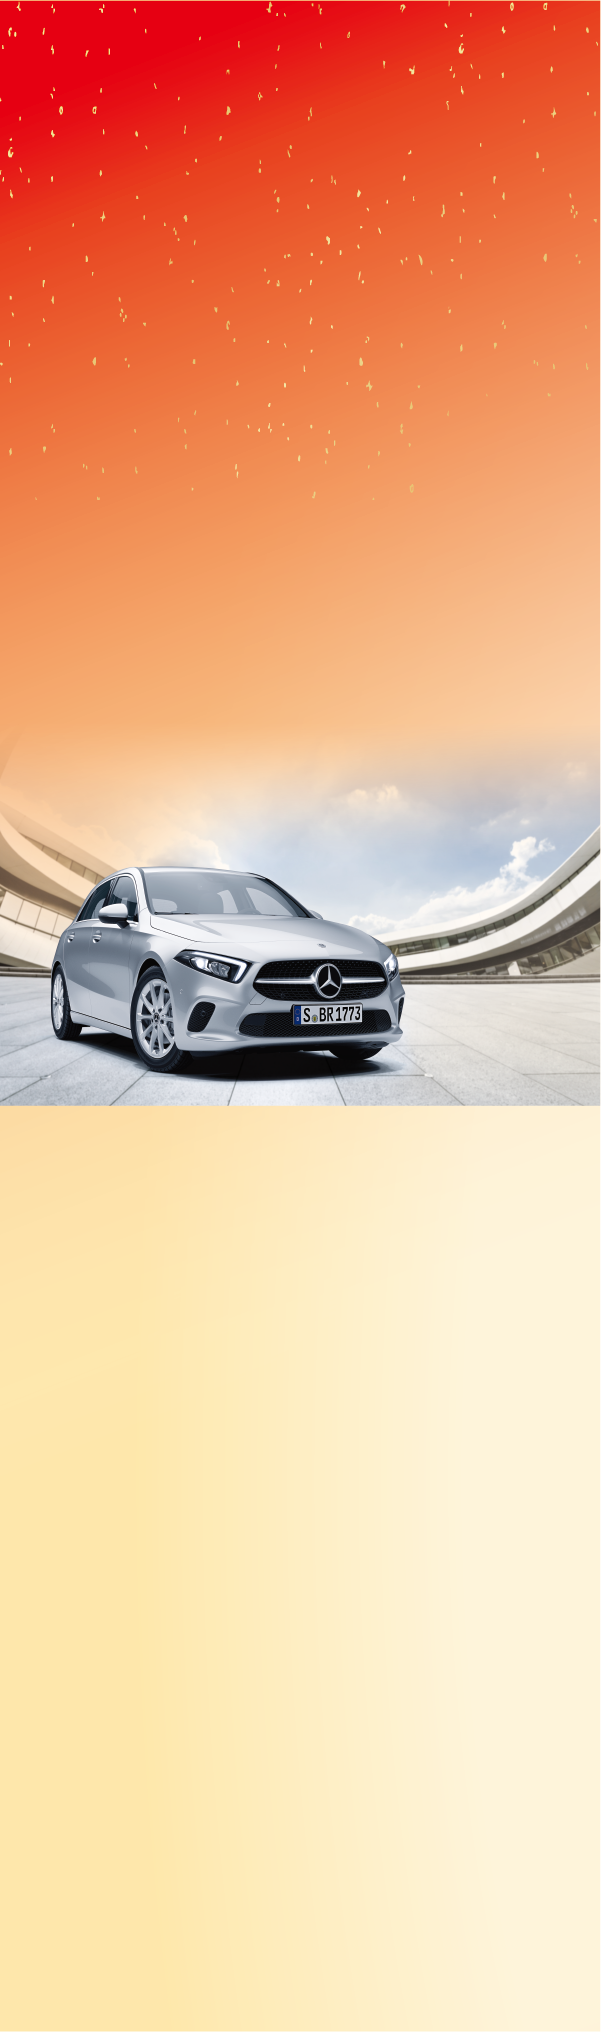
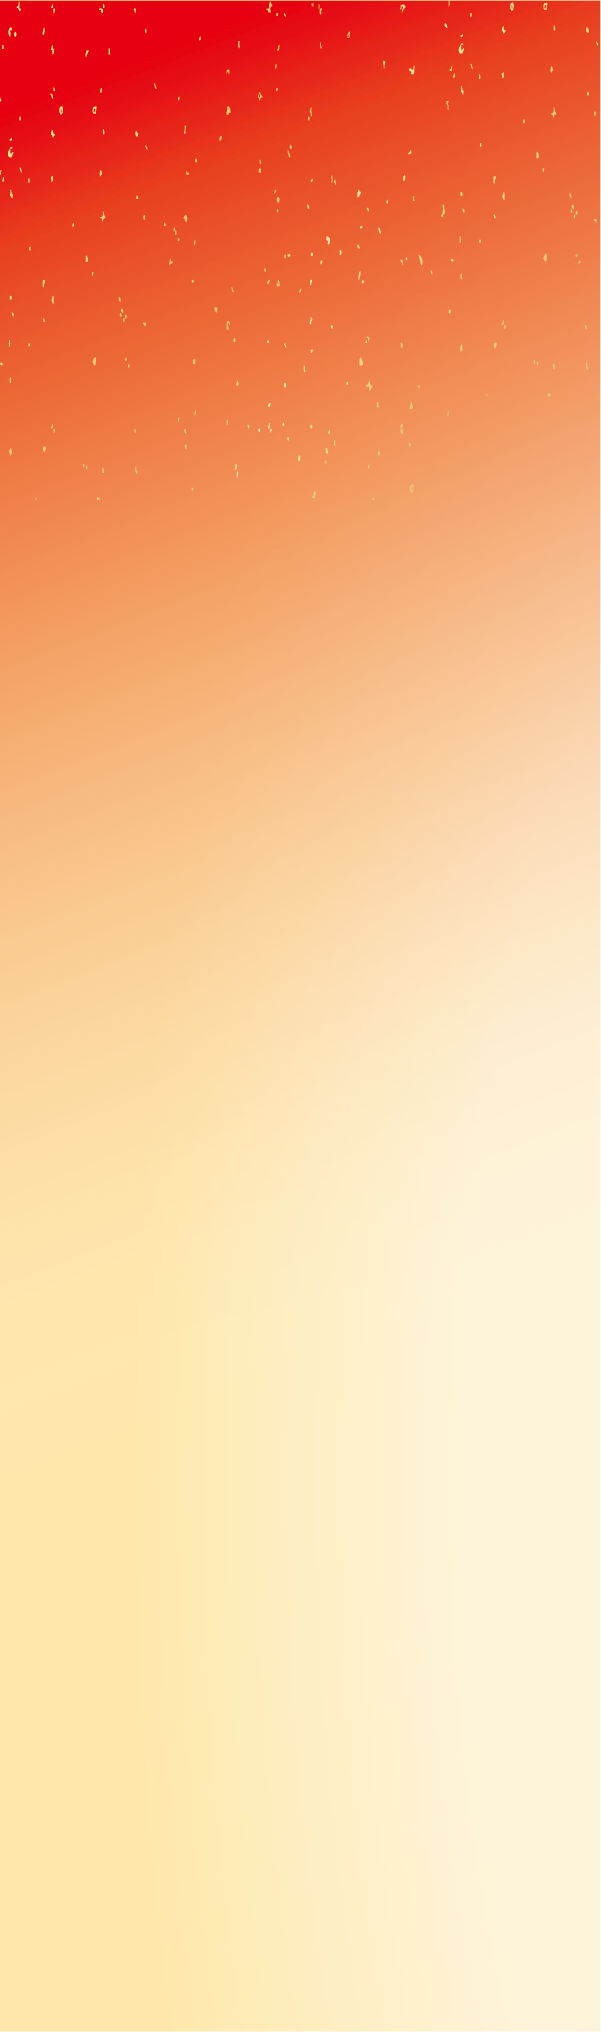
暫存

Changed region(s): [[0.0, 0.372, 1.0, 0.5581]]

diff --git a/Amway/20181225_xinchun/style.css b/Amway/20181225_xinchun/style.css
@@ -217,7 +217,7 @@ body {
 
 
 #slide2 {
-    height: 845px;
+    height: 735px;
     background-image: url(img/1-1.png);
     background-size: 100%;
 }
@@ -245,7 +245,7 @@ body {
     height: 20px;
     background-color: white;
     margin: 0 auto;
-    margin-bottom: 1rem;
+    margin-bottom: 1.5rem;
     border:1px solid #d0121b;
     color: #d0121b;
     border-radius: 10px;
@@ -258,14 +258,29 @@ body {
 
 #slide2 .award1::before{
 	content: url(img/1-4.png);
+	margin-right: 1rem;
 }
 
 #slide2 .award2::before{
 	content: url(img/1-5.png);
+	margin-right: 1rem;
 }
 
 #slide2 .award3::before{
 	content: url(img/1-6.png);
+	margin-right: 1rem;
+}
+
+#car {
+    position: absolute;
+    bottom: 0;
+    z-index: -1;
+    display: block;
+    width: 100%;
+    height: 252px;
+    background-image: url(img/1-9.png);
+    background-size: 100%;
+    background-repeat: no-repeat;
 }
 
 @media (min-width:360px) {

diff --git a/Amway/20181225_xinchun/index.html b/Amway/20181225_xinchun/index.html
@@ -23,10 +23,13 @@
 	</div>
 	<div id="slide2" class="slide">
 		<div id="ttl2"></div>
+		<div id="car"></div>
 		<div class="content">
 			<div id="period">活動期間：2019年1月2日～2019年2月4日</div>
 			<p>賓士A200、安麗逸新空氣清淨機、總價值近300萬元的好運大禮，等你帶回家！三次抽獎機會，越早買、買越多，中獎機會越大！</p>
+			<br>
 			<p>單筆訂單購買安麗產品滿3,800元 (限有售貨額之產品)，即可獲得抽獎權1個，滿7,600元可獲得抽獎權2個，以此類推。</p>
+			<br>
 			<p class="award1">2019年1月2日～2019年1月10日止
 			抽獎贈品：安麗逸新空氣清淨機 (10台)</p>
 			<p class="award2">2019年1月11日～2019年1月20日止
